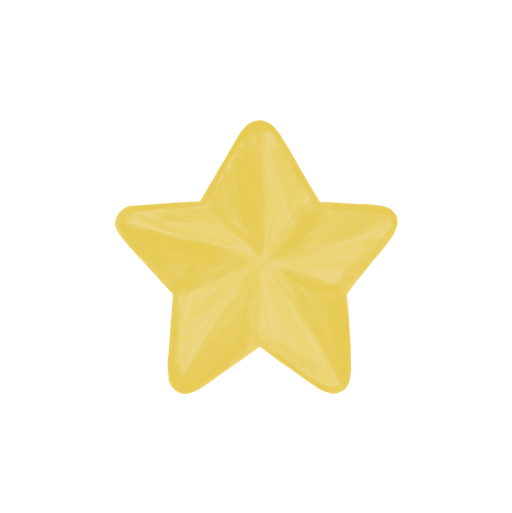
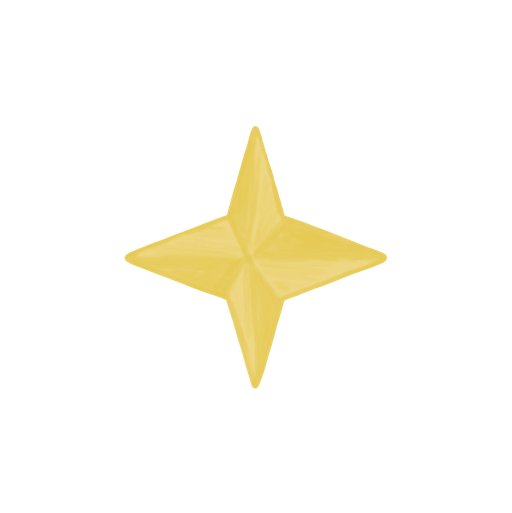
Updated wrist watch star image textures.

Changed region(s): [[0.2188, 0.2183, 0.7812, 0.7797]]

diff --git a/Assets/Starlit_Quest/Scripts/UI/WristWatch.cs b/Assets/Starlit_Quest/Scripts/UI/WristWatch.cs
@@ -16,6 +16,7 @@ public class WristWatch : MonoBehaviour
 
     private bool isWatchInitialized = false;
     private int countCollectedStars = 0;
+    private StarSpawner starSpawner;
     
     private void Update()
     {
@@ -28,6 +29,9 @@ public class WristWatch : MonoBehaviour
         
         dotProgressBar.Initialize(StarCounter.Instance.MaxStars);
         StarCounter.Instance.OnStarsChanged += UpdateWatchUI;
+        
+        // starSpawner = FindObjectOfType<StarSpawner>();
+        
         isWatchInitialized = true;
     }
 
